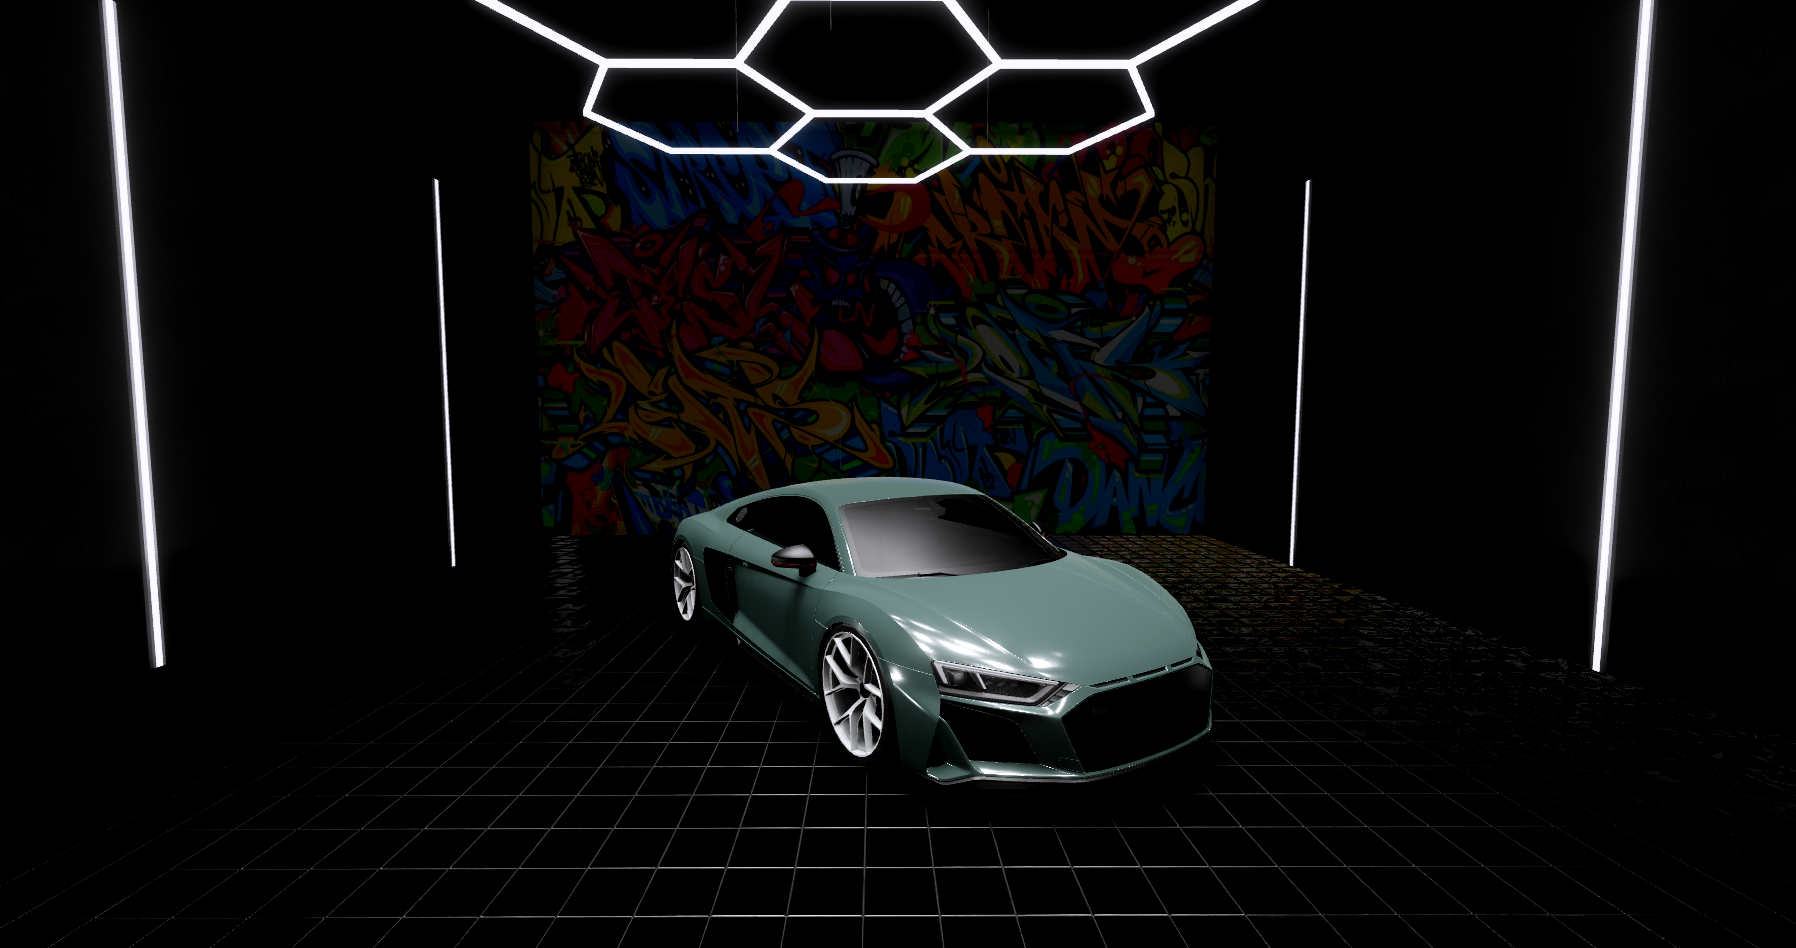
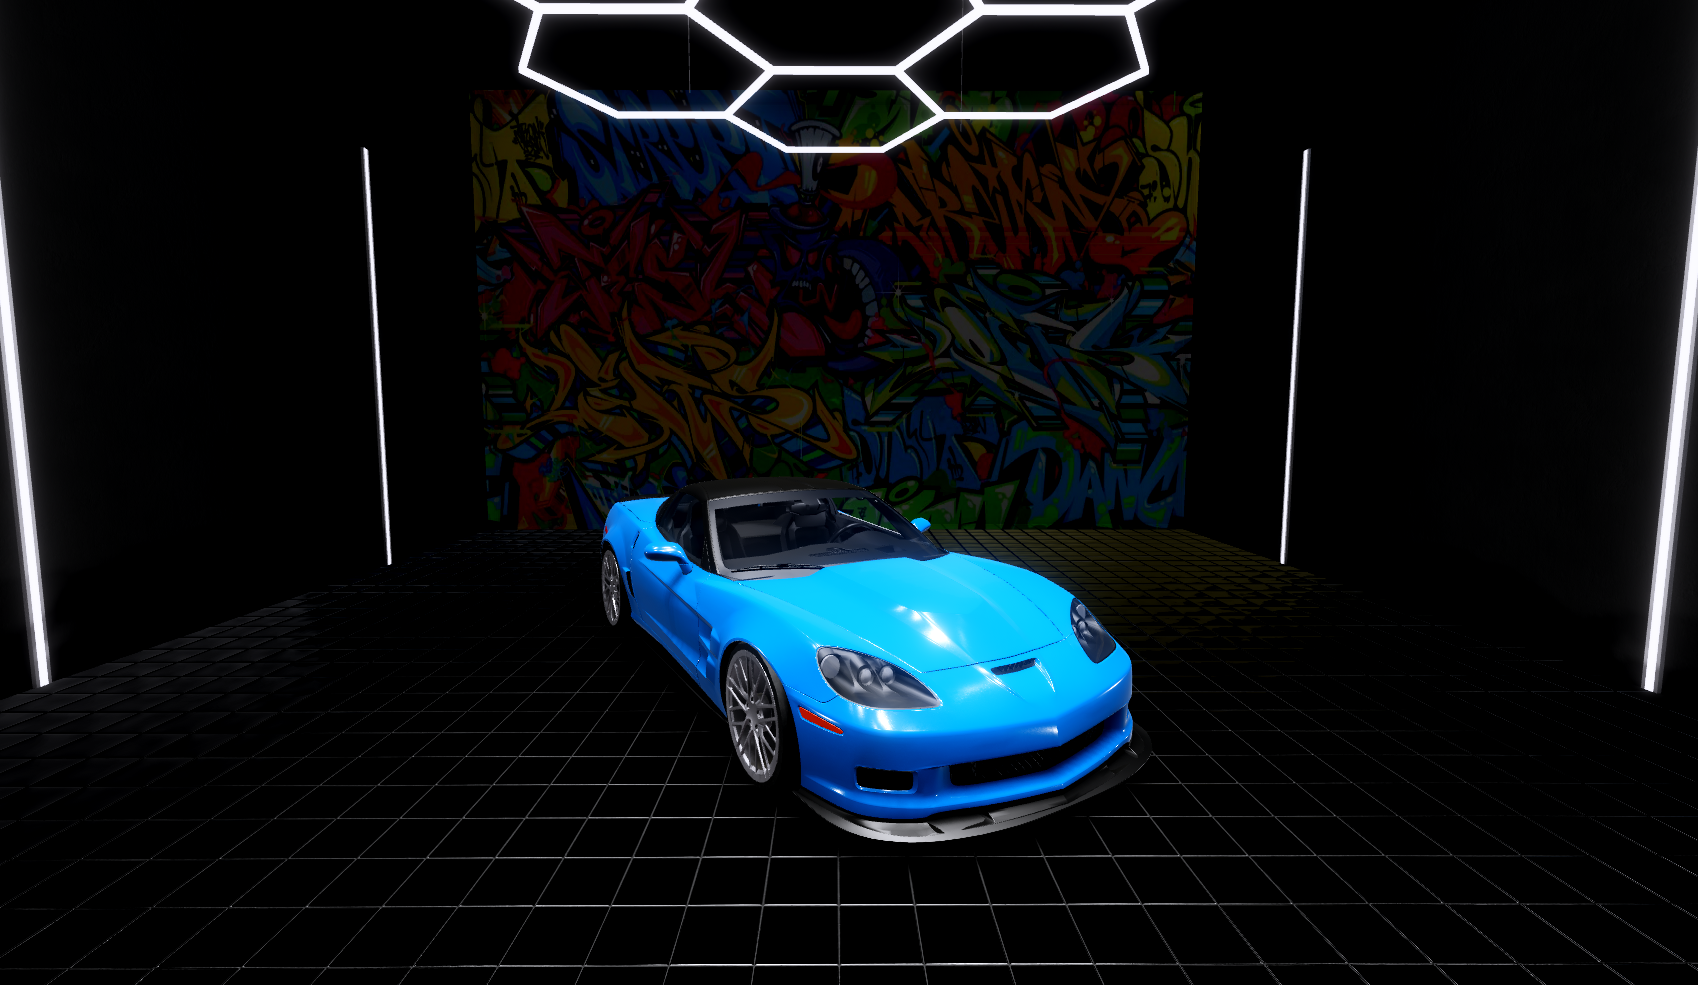
asd
a

diff --git a/listing4/index.html b/listing4/index.html
@@ -254,7 +254,7 @@
   <!-- HEADER -->
   <header class="listing-header fade">
     <div class="gloss"></div>
-    <h1>Audi R8 Performance</h1>
+    <h1>Corvette C6 ZR1</h1>
   </header>
 
   <!-- CAR DETAILS -->
@@ -264,25 +264,25 @@
     </div>
 
     <div class="car-details">
-      <h2 class="car-title">Audi R8 Performance</h2>
+      <h2 class="car-title">Corvette C6 ZR1</h2>
 
       <div class="price-box">
-        Asking Price: $1,065,000 (Negotiable)
+        Asking Price: $280,000 (Negotiable)
       </div>
 
       <p class="description">
-        Description
+        The Corvette C6 ZR1 is an American powerhouse—lightweight, supercharged, and brutally fast, delivering raw performance and razor-sharp precision that still turns heads today.
       </p>
 
       <h3 class="spec">Specifications</h3>
       <div class="spec-grid">
         <div><strong>Engine:</strong> 4.0-Liter V8 Twin Turbo</div>
         <div><strong>Horsepower:</strong> TBE Tune 1350 hp</div>
-        <div><strong>Mileage:</strong> 387</div>
+        <div><strong>Mileage:</strong> 10,387</div>
         <div><strong>Owner:</strong> @lamborghini_legend54</div>
-        <div><strong>Primary Color:</strong> Mint Green</div>
+        <div><strong>Primary Color:</strong>Picton Blue</div>
         <div><strong>Accent Color:</strong> Black</div>
-        <div><strong>Rim Color:</strong> White</div>
+        <div><strong>Rim Color:</strong> Chrome/silver</div>
       </div>
     </div>
   </main>

diff --git a/listing3/index.html b/listing3/index.html
@@ -271,7 +271,7 @@
       </div>
 
       <p class="description">
-        Description
+        The BMW M4 Competition brings track-bred performance to the street with explosive power, precise handling, and a bold design that makes every drive feel like a qualifying lap.
       </p>
 
       <h3 class="spec">Specifications</h3>

diff --git a/listing5/index.html b/listing5/index.html
@@ -271,7 +271,7 @@
       </div>
 
       <p class="description">
-        Description
+        The BMW M4 Competition brings track-bred performance to the street with explosive power, precise handling, and a bold design that makes every drive feel like a qualifying lap.
       </p>
 
       <h3 class="spec">Specifications</h3>

diff --git a/listing2/index.html b/listing2/index.html
@@ -271,7 +271,7 @@
       </div>
 
       <p class="description">
-        Description
+        The original Audi R8 delivers supercar excitement with everyday usability, blending its iconic V8 power, razor-sharp handling, and timeless design into a true modern classic.
       </p>
 
       <h3 class="spec">Specifications</h3>

diff --git a/index.html b/index.html
@@ -283,8 +283,8 @@ footer small {
     <div class="car-card fade-in delay4">
       <img src="images/main3.png">
       <div class="car-info">
-        <h3>Audi R8 V10 Plus</h3>
-        <p>Starting at $1,075,000</p>
+        <h3>Corvette C6 ZR1</h3>
+        <p>Starting at $280,000</p>
       </div>
     </div>
 

diff --git a/listings.html b/listings.html
@@ -220,7 +220,7 @@
 
     <a href="./listing4/index.html" class="card">
       <img src="./listing4/images/main.png">
-      <h2>Audi R8 Performance</h2>
+      <h2>Corvette C6 ZR1</h2>
     </a>
 
     <a href="./listing5/index.html" class="card">
